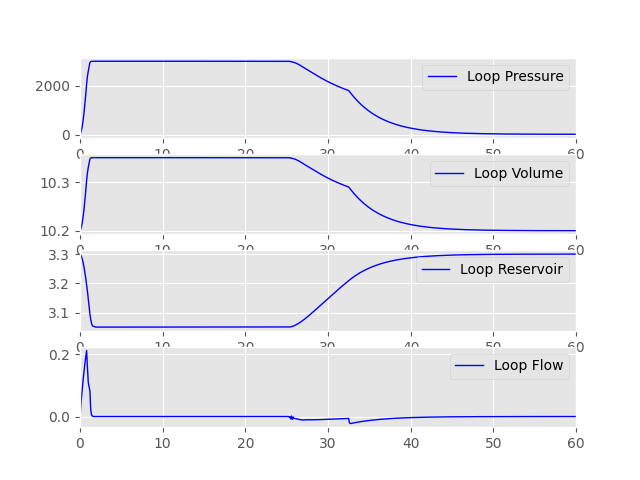
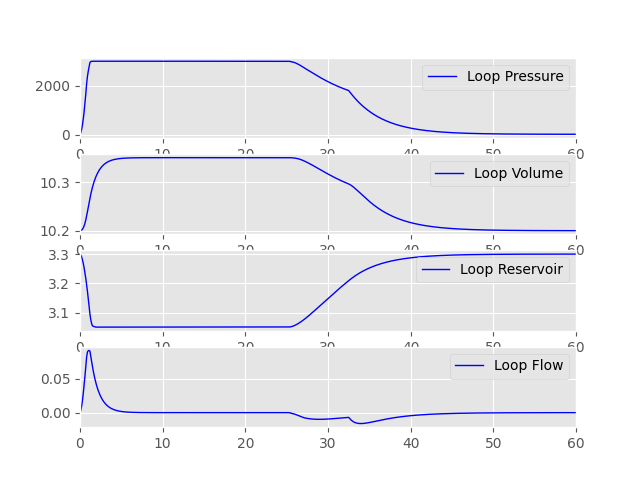
PTU model update
Flow available for PTU is now limited by max pump capacity.
This is a workaround to mitigate the fact that PTU wants to use all flow available in the loop instantly, having huge impact on pressure drop.

diff --git a/systems/src/hydraulic/mod.rs b/systems/src/hydraulic/mod.rs
@@ -239,8 +239,12 @@ pub struct Ptu {
 impl Ptu {
     //Low pass filter to handle flow dynamic: avoids instantaneous flow transient,
     // simulating RPM dynamic of PTU
-    const FLOW_DYNAMIC_LOW_PASS_LEFT_SIDE : f64 = 0.05;
-    const FLOW_DYNAMIC_LOW_PASS_RIGHT_SIDE : f64 = 0.05;
+    const FLOW_DYNAMIC_LOW_PASS_LEFT_SIDE : f64 = 0.1;
+    const FLOW_DYNAMIC_LOW_PASS_RIGHT_SIDE : f64 = 0.1;
+
+    //Part of the max total pump capacity PTU model is allowed to take. Set to 1 all capacity used
+    // set to 0.5 PTU will only use half of the flow that all pumps are able to generate
+    const AGRESSIVENESS_FACTOR : f64 = 0.6;
 
     pub fn new() -> Ptu {
         Ptu{
@@ -266,6 +270,10 @@ impl Ptu {
             if self.isActiveLeft || (!self.isActiveRight && deltaP.get::<psi>()  > 500.0) {//Left sends flow to right
                 let mut vr = 16.0f64.min(loopLeft.loop_pressure.get::<psi>() * 0.0058) / 60.0;
 
+                //Limiting available flow with maximum flow capacity of all pumps of the loop.
+                //This is a workaround to limit PTU greed for flow
+                vr=vr.min(loopLeft.current_max_flow.get::<gallon_per_second>()*Ptu::AGRESSIVENESS_FACTOR);
+
                 //Low pass on flow
                 vr = Ptu::FLOW_DYNAMIC_LOW_PASS_LEFT_SIDE * vr
                 + (1.0-Ptu::FLOW_DYNAMIC_LOW_PASS_LEFT_SIDE) * self.last_flow.get::<gallon_per_second>();
@@ -277,6 +285,10 @@ impl Ptu {
                 self.isActiveLeft=true;
             } else if self.isActiveRight || (!self.isActiveLeft && deltaP.get::<psi>()  < -500.0) {//Right sends flow to left
                 let mut vr = 34.0f64.min(loopRight.loop_pressure.get::<psi>() * 0.0125) / 60.0;
+
+                //Limiting available flow with maximum flow capacity of all pumps of the loop.
+                //This is a workaround to limit PTU greed for flow
+                vr=vr.min(loopRight.current_max_flow.get::<gallon_per_second>()*Ptu::AGRESSIVENESS_FACTOR);
 
                 //Low pass on flow
                 vr = Ptu::FLOW_DYNAMIC_LOW_PASS_RIGHT_SIDE * vr
@@ -290,10 +302,10 @@ impl Ptu {
             }
 
             //TODO REVIEW DEACTICATION LOGIC
-            if  self.isActiveRight && loopLeft.loop_pressure.get::<psi>()  > 2980.0
-             || self.isActiveLeft && loopRight.loop_pressure.get::<psi>() > 2980.0
-             || self.isActiveRight && loopRight.loop_pressure.get::<psi>()  < 200.0
-             || self.isActiveLeft && loopLeft.loop_pressure.get::<psi>()  < 200.0
+            if  self.isActiveRight && loopLeft.loop_pressure.get::<psi>()  > 3001.0
+             || self.isActiveLeft && loopRight.loop_pressure.get::<psi>() > 3001.0
+             || self.isActiveRight && loopRight.loop_pressure.get::<psi>()  < 500.0
+             || self.isActiveLeft && loopLeft.loop_pressure.get::<psi>()  < 500.0
              {
                 self.flow_to_left=VolumeRate::new::<gallon_per_second>(0.0);
                 self.flow_to_right=VolumeRate::new::<gallon_per_second>(0.0);
@@ -327,6 +339,7 @@ pub struct HydLoop {
     reservoir_volume: Volume,
     current_delta_vol: Volume,
     current_flow: VolumeRate,
+    current_max_flow : VolumeRate, //Current total max flow available from pressure sources
 }
 
 impl HydLoop {
@@ -336,6 +349,8 @@ impl HydLoop {
 
     //Low pass filter on pressure. This has to be pretty high not to modify behavior of the loop, but still dampening numerical instability
     const PRESSURE_LOW_PASS_FILTER : f64 = 0.75;
+
+    const DELTA_VOL_LOW_PASS_FILTER : f64 = 0.1;
 
     const ACCUMULATOR_PRESS_BREAKPTS: [f64; 9] = [
         0.0 ,5.0 , 10.0 ,50.0 ,100.0 ,200.0 ,500.0 ,1000.0 , 10000.0
@@ -372,6 +387,7 @@ impl HydLoop {
             current_flow: VolumeRate::new::<gallon_per_second>(0.),
             accumulator_press_breakpoints:HydLoop::ACCUMULATOR_PRESS_BREAKPTS,
             accumulator_flow_carac:HydLoop::ACCUMULATOR_FLOW_CARAC,
+            current_max_flow: VolumeRate::new::<gallon_per_second>(0.),
         }
     }
 
@@ -442,6 +458,8 @@ impl HydLoop {
             delta_vol_min += p.get_delta_vol_min();
         }
 
+        //Storing max pump capacity available. for now used in PTU model to limit it's input flow
+        self.current_max_flow = delta_vol_max / Time::new::<second>(delta_time.as_secs_f64());
 
         //Static leaks
         //TODO: separate static leaks per zone of high pressure or actuator
@@ -568,6 +586,9 @@ impl HydLoop {
         self.reservoir_volume += reservoir_return;
 
         //Update Volumes
+
+        //Low pass filter on final delta vol to help with stability and final flow noise
+        delta_vol = HydLoop::DELTA_VOL_LOW_PASS_FILTER * delta_vol + (1.-HydLoop::DELTA_VOL_LOW_PASS_FILTER ) * self.current_delta_vol;
         self.loop_volume += delta_vol;
 
         self.current_delta_vol=delta_vol;
@@ -1230,14 +1251,14 @@ mod tests {
 
             if x == 300 { //@30s, ptu should be supplying green loop
                 println!("----------PTU SUPPLIES GREEN------------");
-               assert!(yellow_loop.loop_pressure >= Pressure::new::<psi>(2400.0));
-               assert!(green_loop.loop_pressure >= Pressure::new::<psi>(2400.0));
+                assert!(yellow_loop.loop_pressure >= Pressure::new::<psi>(2400.0));
+                assert!(green_loop.loop_pressure >= Pressure::new::<psi>(2400.0));
             }
 
             if x == 400 { //@40s enabling edp
                 println!("------------GREEN  EDP1  ON------------");
-               assert!(yellow_loop.loop_pressure >= Pressure::new::<psi>(2400.0));
-               assert!(green_loop.loop_pressure >= Pressure::new::<psi>(2400.0));
+               assert!(yellow_loop.loop_pressure >= Pressure::new::<psi>(2600.0));
+               assert!(green_loop.loop_pressure >= Pressure::new::<psi>(2000.0));
                 edp1.start();
             }
 
